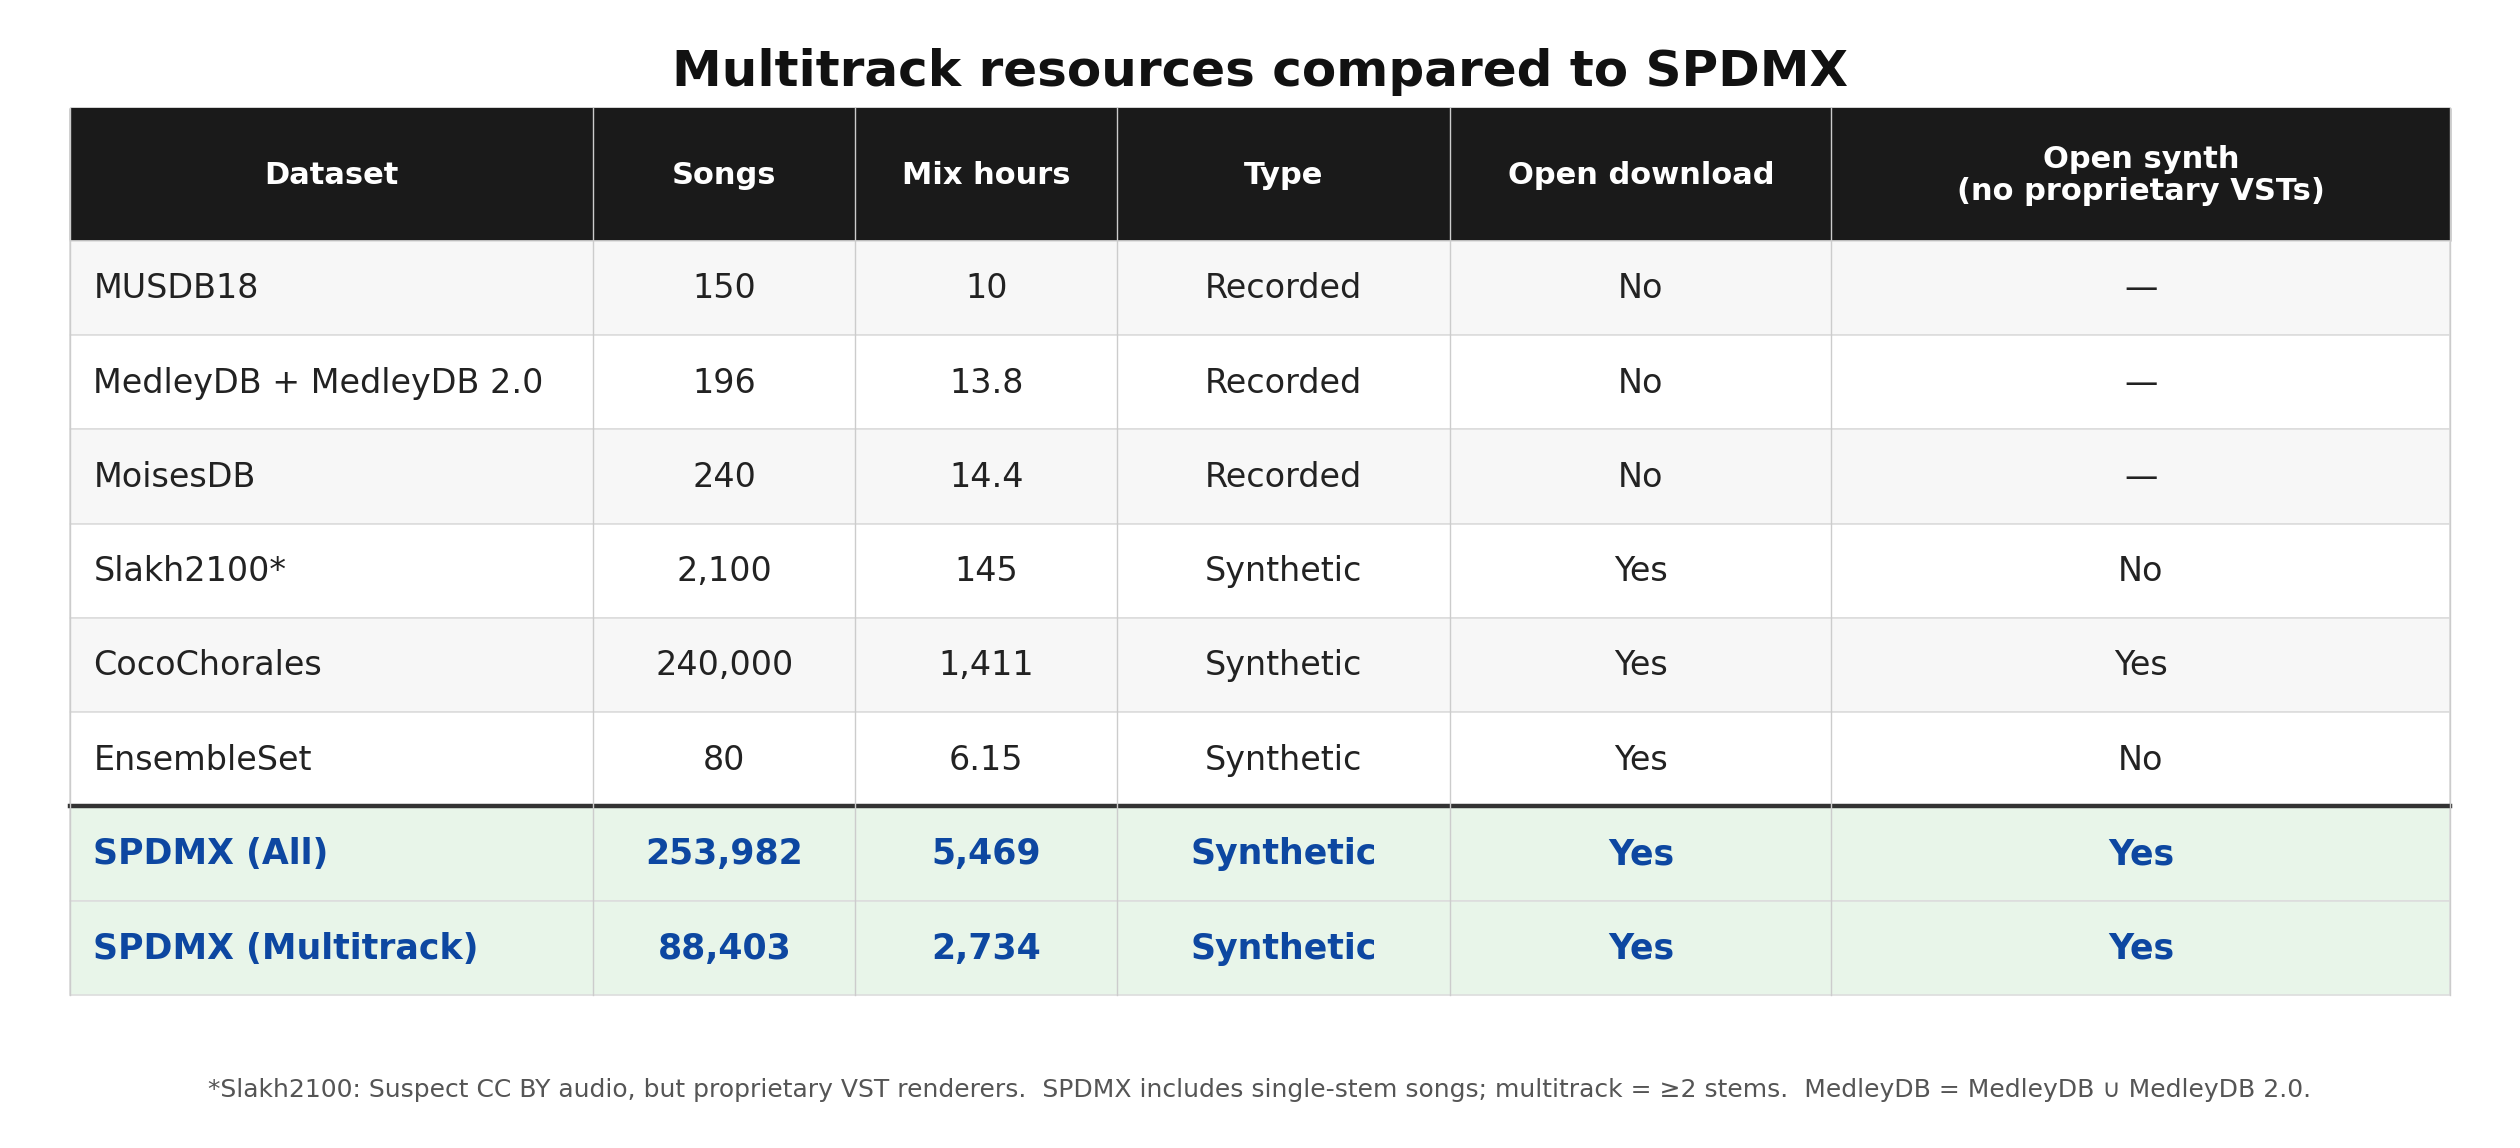
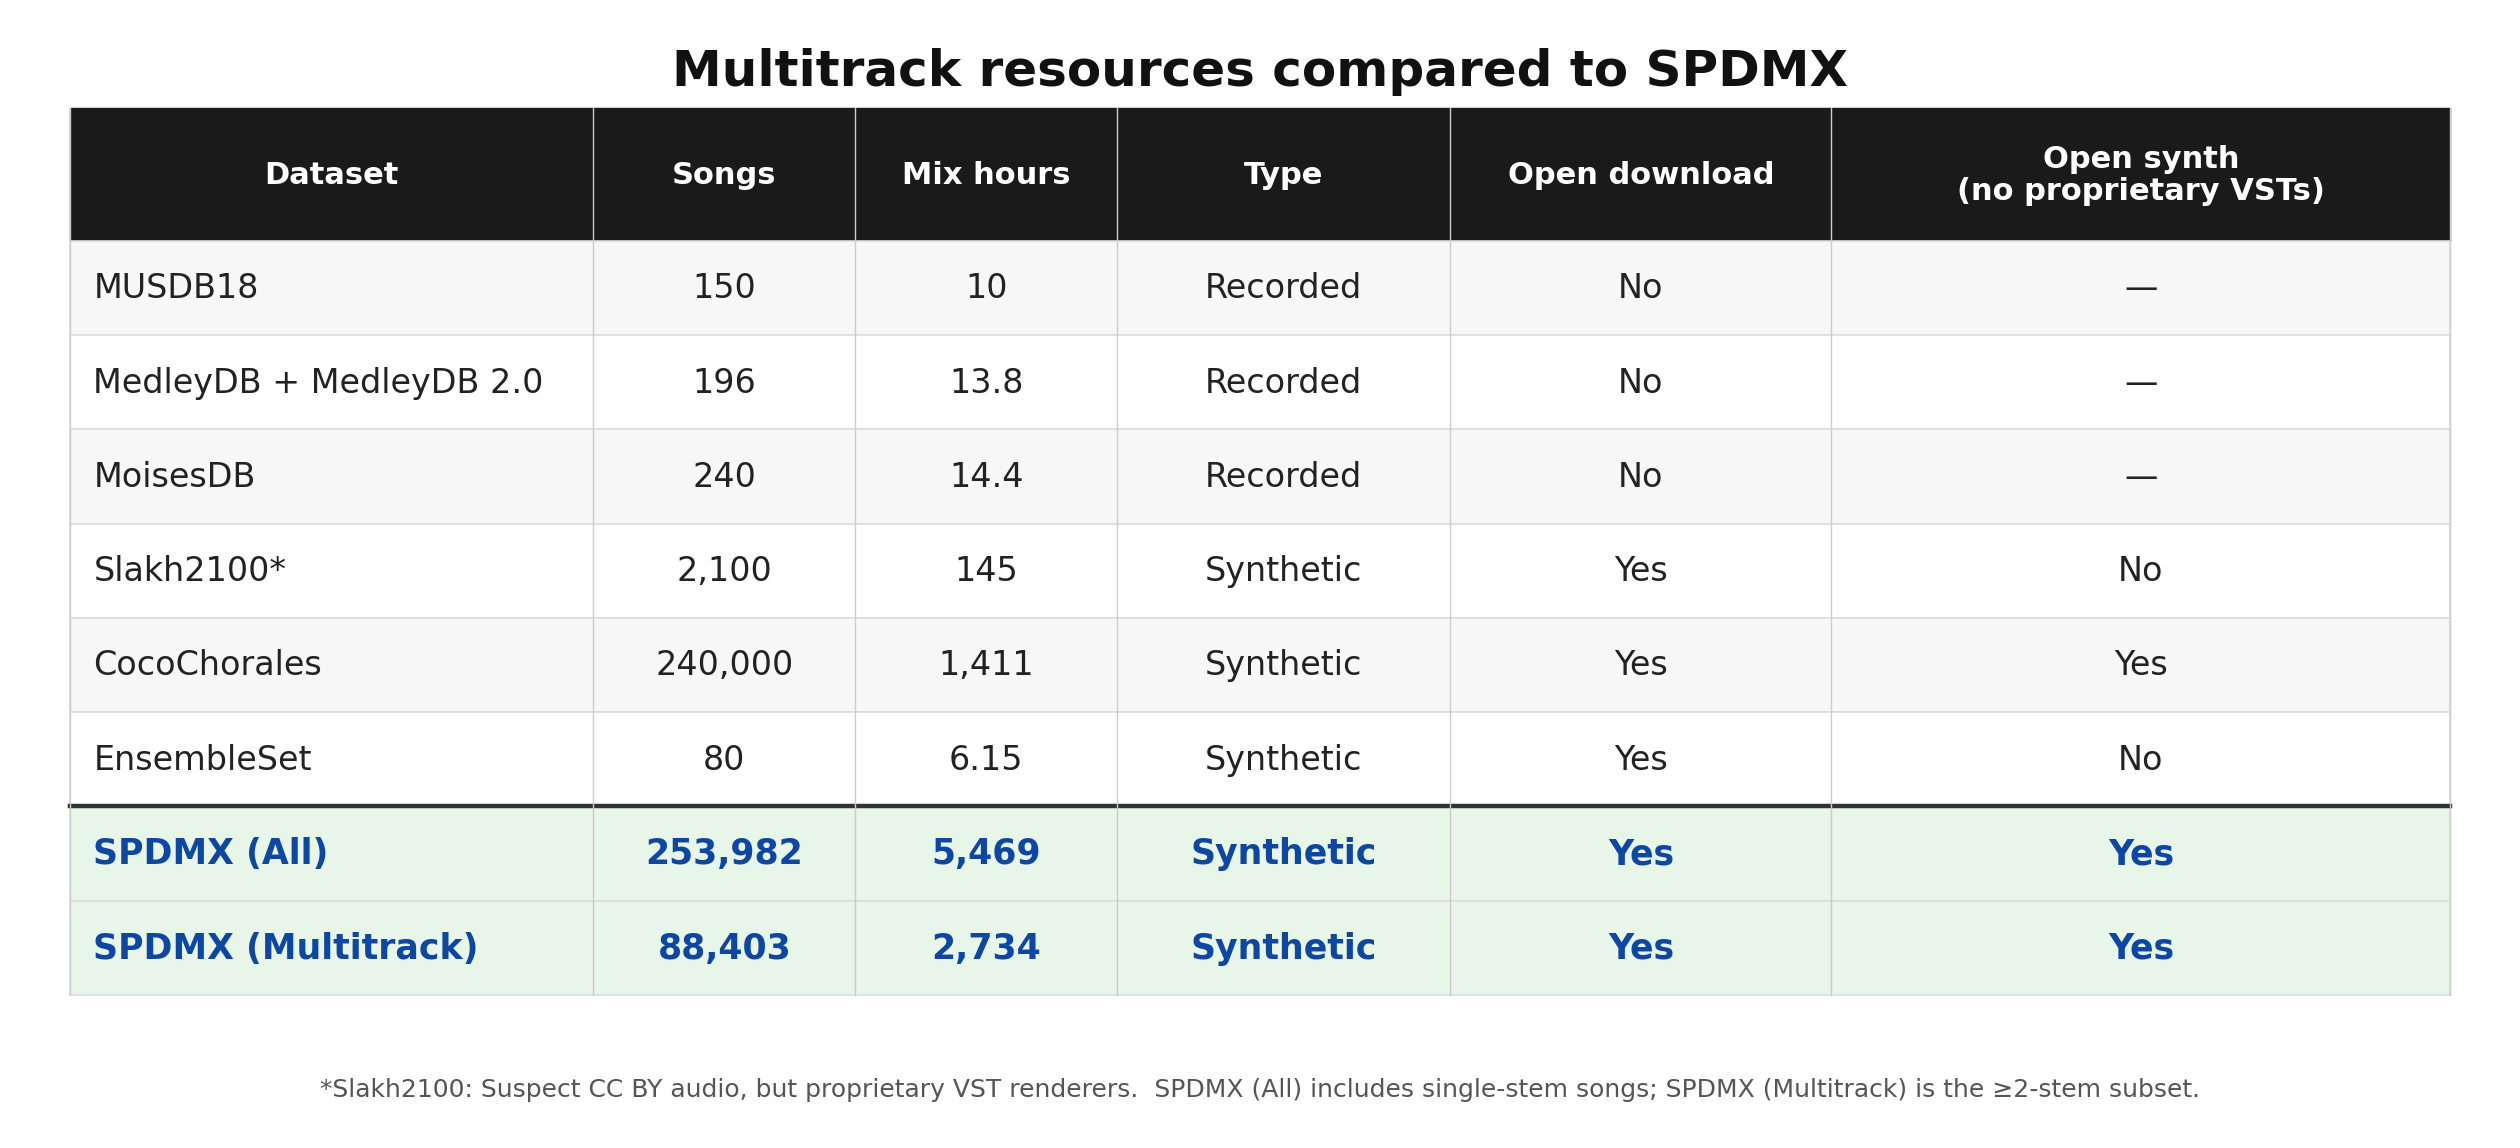
updated twitter blast

Changed region(s): [[0.0929, 0.9451, 0.8976, 0.9756]]

diff --git a/submission/social/render_datasets_table.py b/submission/social/render_datasets_table.py
@@ -36,8 +36,7 @@ ROWS = [
 
 FOOTNOTE = (
     "*Slakh2100: Suspect CC BY audio, but proprietary VST renderers.  "
-    "SPDMX includes single-stem songs; multitrack = ≥2 stems.  "
-    "MedleyDB = MedleyDB ∪ MedleyDB 2.0."
+    "SPDMX (All) includes single-stem songs; SPDMX (Multitrack) is the ≥2-stem subset."
 )
 
 

diff --git a/submission/social/BLAST_DRAFTS.md b/submission/social/BLAST_DRAFTS.md
@@ -15,34 +15,38 @@ uv run python -m submission.social.export_fig_pngs
 
 ---
 
->250k songs. ~490k open stems. Paired MIDI.
+>250k songs, ~490k open stems, paired MIDI.
 
-Presenting SPDMX: open stem audio from public-domain PDMX (~5.5k song-hours, CC BY 4.0) 🎧
+Presenting SPDMX: open stem audio from the public-domain PDMX dataset (~5.5k song-hours, CC BY 4.0) 🎧
 
 w/ @eduardoescoto_, @zacknovack, @McAuleyLabUCSD
+
 🧵
 
 ![][headline.png]
 
 ---
 
-Copyright blocks redistributing training audio, especially for tasks that need individual stems. Recorded multitrack datasets are tiny or restricted. Synthetic ones lean on proprietary VSTs, or dry GM renders. 🙁
+Copyright blocks the redistribution of training audio, especially for tasks that need individual stems. Recorded multitrack datasets are tiny or restricted. Synthetic corpora rely on proprietary VSTs or dry General MIDI (GM) renders. 🙁
+
 🧵2/5
 
 ![][datasets_table.png]
 
 ---
 
-To alleviate this, SPDMX ships 253,982 songs / 490,159 mono stems / 5,469 song-hours at 44.1 kHz.
+To alleviate this, we present SPDMX, which comprises 253,982 songs / 490,159 mono stems / 5,469 song-hours at 44.1 kHz.
 
-88,403 multitrack songs (2,734 h; 34.8%): largest openly-licensed synthetic multitrack dataset by song-hours.
+This includes 88,403 multitrack songs (2,734 h; 34.8%), the largest openly-licensed synthetic multitrack dataset by song-hours.
+
 🧵3/5
 
 ![][stems_per_song.png]
 
 ---
 
-We correct GM programs from track names and pick open FluidSynth / MIDI-DDSP recipes via a listening study. SPDMX easily links to the original PDMX corpus through shared song identifiers.
+We correct GM programs using track names and pick open FluidSynth / MIDI-DDSP recipes via a listening study.
+
 🧵4/5
 
 ![][gm_programs.png]
@@ -55,9 +59,8 @@ Huge thanks to @eduardoescoto_, @zacknovack, & @McAuleyLabUCSD.
 
 📄: arxiv.org/abs/2611.09140
 🎧: pnlong.github.io/SPDMX
-🧵5/5
 
-![][ablation_listening.png]
+🧵5/5
 
 ---
 
@@ -65,16 +68,16 @@ Huge thanks to @eduardoescoto_, @zacknovack, & @McAuleyLabUCSD.
 
 ---
 
->250k songs. ~490k open stems. Paired MIDI.
+>250k songs, ~490k open stems, paired MIDI.
 
-Excited to share SPDMX: an openly-licensed stem corpus rendered from public-domain PDMX. 253,982 songs, 490,159 mono stems, and 5,469 song-hours at 44.1 kHz under CC BY 4.0, with paired MIDI and identifiers linking to PDMX metadata. The 88,403 multitrack songs (2,734 song-hours, 34.8%) are, to our knowledge, the largest openly-licensed synthetic multitrack subset by song-hours. We demo SPDMX for source separation and transcription, and release the open creation pipeline for reuse on other symbolic collections.
+I’m excited to share SPDMX: an openly-licensed stem corpus rendered from the public-domain PDMX dataset. SPDMX comprises 253,982 songs, 490,159 mono stems, and 5,469 song-hours at 44.1 kHz under CC BY 4.0, and also includes paired MIDI. To our knowledge, the 88,403 multitrack songs (2,734 song-hours, 34.8%) are the largest openly-licensed synthetic multitrack subset by song-hours. We demo SPDMX for source separation and transcription, and release the open creation pipeline for reuse on other symbolic music collections!
 
 w/ Eduardo Escoto, Julian McAuley, and Zachary Novack
 
 📄: https://arxiv.org/abs/2611.09140
 🎧: https://pnlong.github.io/SPDMX/
 
-Go listen on the demo page!
+Go listen to some samples on our demo page!
 
 Abstract: Large public datasets have driven recent progress in machine learning, from text and vision to speech and general audio. Music remains an outlier, as copyright blocks redistribution of training audio, in particular for modern tasks that need individual stems rather than mixtures. Existing multitrack resources trade off realism, scale, and licensing, as synthetic alternatives rely on proprietary VSTs or naive open rendering that yields weak stems. We introduce SPDMX, an openly-licensed stem corpus rendered from the public-domain PDMX dataset. SPDMX comprises 5,469 song-hours (2,734 song-hours, or 34.8%, of which are multitrack scores) at 44.1 kHz under CC BY 4.0, with paired MIDI and identifiers that link our dataset to PDMX's original metadata. To our knowledge, SPDMX's multitrack subset constitutes the largest openly-licensed synthetic multitrack subset by song-hours. We then demo SPDMX as a dataset for both source separation and transcription, showing how its increased scale can enable better training of models on synthetic data. We release SPDMX, as well as the open creation pipeline for reuse on other symbolic music datasets.
 
